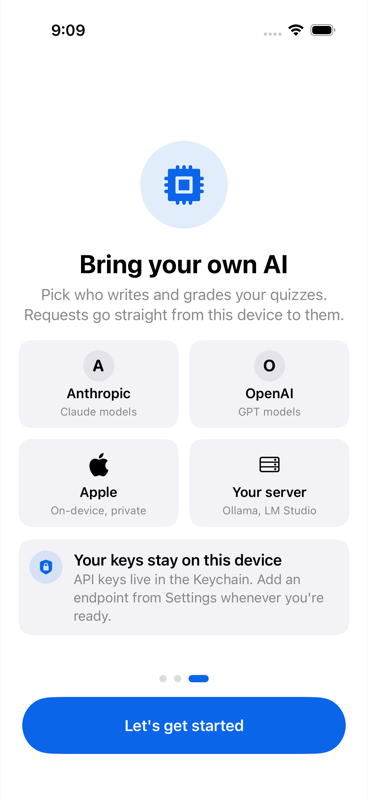
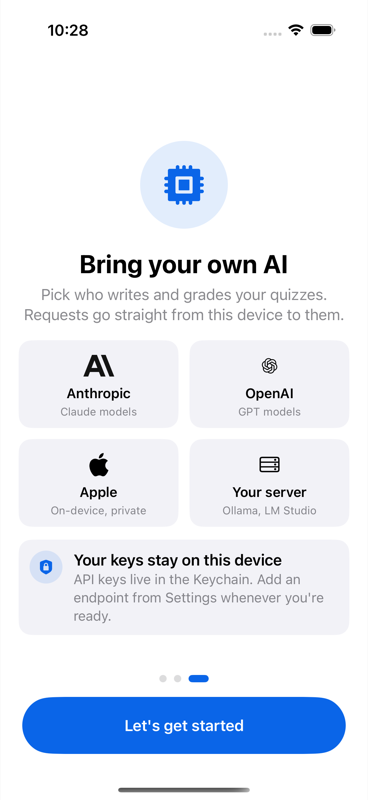
Add official Anthropic and OpenAI marks to the provider tiles
The owner approved downloading the official files and accepted OpenAI's
Marks usage terms. The Anthropic symbol (Slate / Ivory) comes from the
press kit on anthropic.com; the OpenAI Blossom (black / white) from
openai.com/brand. Both are unmodified SVGs with light and dark variants,
replacing the A and O monograms. Provenance is recorded in ADR-016.

diff --git a/AIQuiz/App/OnboardingView.swift b/AIQuiz/App/OnboardingView.swift
@@ -350,8 +350,9 @@ struct ProviderMark: View {
 
     @ViewBuilder
     private var logo: some View {
-        if let asset = provider.assetName, let image = UIImage(named: asset) {
-            Image(uiImage: image).resizable().scaledToFit()
+        if let asset = provider.assetName, UIImage(named: asset) != nil {
+            // The SwiftUI image follows light and dark mode; the asset holds both variants.
+            Image(asset).resizable().scaledToFit()
         } else {
             switch provider {
             case .apple:

diff --git a/CHANGELOG.md b/CHANGELOG.md
@@ -62,7 +62,7 @@ All notable changes to AIQuiz. Format follows [Keep a Changelog](https://keepach
   - **Fixed:** in Study — User-paced read, a revealed hint stayed open on the next card. Every mode now resets the hint per card.
   - **Fixed:** deleted sample quizzes came back on every launch. Samples are now added on first launch only.
   - **New look (CR-011):** one blue accent color marks the main action on every screen: the round + button, Generate, Save in editors, Play / Pause, Next and Tap to answer. Red, orange and green are kept for grades and destructive actions.
-  - **Welcome screens redesigned:** illustrations and tiles for the three study modes, the four kinds of source, and the AI providers. They fit on iPhone, lay out side by side on iPad, and end with *Let's get started*.
+  - **Welcome screens redesigned:** illustrations and tiles for the three study modes, the four kinds of source, and the AI providers, with the official Anthropic and OpenAI marks in light and dark versions. They fit on iPhone, lay out side by side on iPad, and end with *Let's get started*.
   - **Library:** sort sits above the list next to the quiz count instead of in the toolbar, so the + button stands on its own.
   - **Generate quiz:** *Cancel* is top left and *Generate* top right. Generate stays grey until there's something to generate from, then turns blue, and a line says what's missing.
   - The three study and quiz screens share one card face, progress header, Hint button, End confirmation and swipe gesture, and each runs on a player that is unit-tested with scripted speech (ADR-015). The three screens went from 960 to 429 lines.

diff --git a/DECISIONS.md b/DECISIONS.md
@@ -197,6 +197,10 @@ One entry per decision that shapes the codebase. Each records the conversation w
 - Explanatory screens use tiles and icons rather than paragraphs.
 - Each screen is checked on iPad and iPhone.
 
-**Logos.** Provider tiles use the official Anthropic and OpenAI logos only when their image sets are added to the asset catalog. Agents don't download or redraw brand marks, so a neutral monogram stands in until then. Apple uses the `apple.logo` SF Symbol, which refers to Apple's own on-device model.
+**Logos.** Provider tiles use official marks, never redrawn ones. On 2026-10-22, with Jaime's approval, I downloaded these:
+- `logo-anthropic`: the Anthropic symbol in Slate (light mode) and Ivory (dark mode), from the press kit linked on anthropic.com/news. The kit contains no usage terms.
+- `logo-openai`: the OpenAI Blossom in black (light mode) and white (dark mode), from `cdn.openai.com/brand/openai-logos.zip` on openai.com/brand. Jaime accepted OpenAI's Marks usage terms for this. The SVG keeps OpenAI's built-in clear space, so the Blossom looks a little smaller than the other marks; that is intentional.
+
+The files are used unmodified, next to the provider's name and only to identify the provider. If an image set is removed, the tile falls back to a neutral monogram. Apple uses the `apple.logo` SF Symbol, which refers to Apple's own on-device model.
 
 **Consequences.** Later screens follow N-9. Phase 6's choice buttons and Phase 7's due badge will use the accent only for the selected or primary state.

diff --git a/SPEC.md b/SPEC.md
@@ -288,7 +288,7 @@ Accessibility identifier convention `screen.element`. Every interactive control 
 ---
 
 ## 13. First run and onboarding (F-60)
-Three illustrated screens (CR-011): *Three ways to study* (a tile per mode), *Make quizzes from anything* (the four source types, then the deck and the kept original), *Bring your own AI* (Anthropic, OpenAI, Apple on-device and your own server, plus a note that keys stay in the Keychain). Tiles sit side by side on iPad and stack on iPhone. The last screen ends with *Let's get started*; endpoints are added later from Settings. Skippable. Shown once (flag in UserDefaults). Samples are seeded regardless. Provider tiles show official logos when `logo-anthropic` / `logo-openai` image sets are in the asset catalog, otherwise a neutral monogram.
+Three illustrated screens (CR-011): *Three ways to study* (a tile per mode), *Make quizzes from anything* (the four source types, then the deck and the kept original), *Bring your own AI* (Anthropic, OpenAI, Apple on-device and your own server, plus a note that keys stay in the Keychain). Tiles sit side by side on iPad and stack on iPhone. The last screen ends with *Let's get started*; endpoints are added later from Settings. Skippable. Shown once (flag in UserDefaults). Samples are seeded regardless. Provider tiles show the official Anthropic symbol and OpenAI Blossom (asset catalog `logo-anthropic`, `logo-openai`, light and dark variants, unmodified; provenance in ADR-016), Apple's `apple.logo` symbol, and a server symbol.
 
 ---
 
